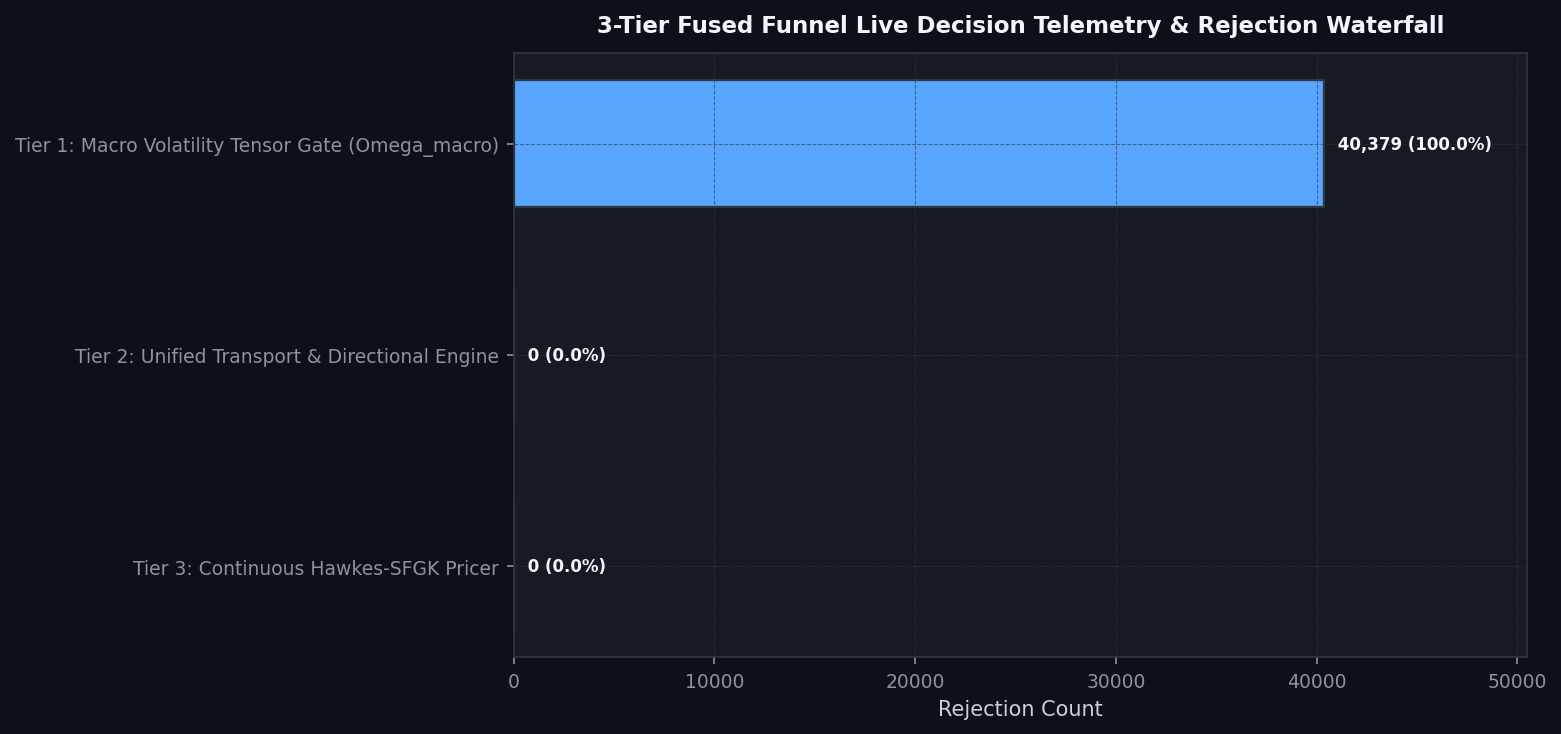
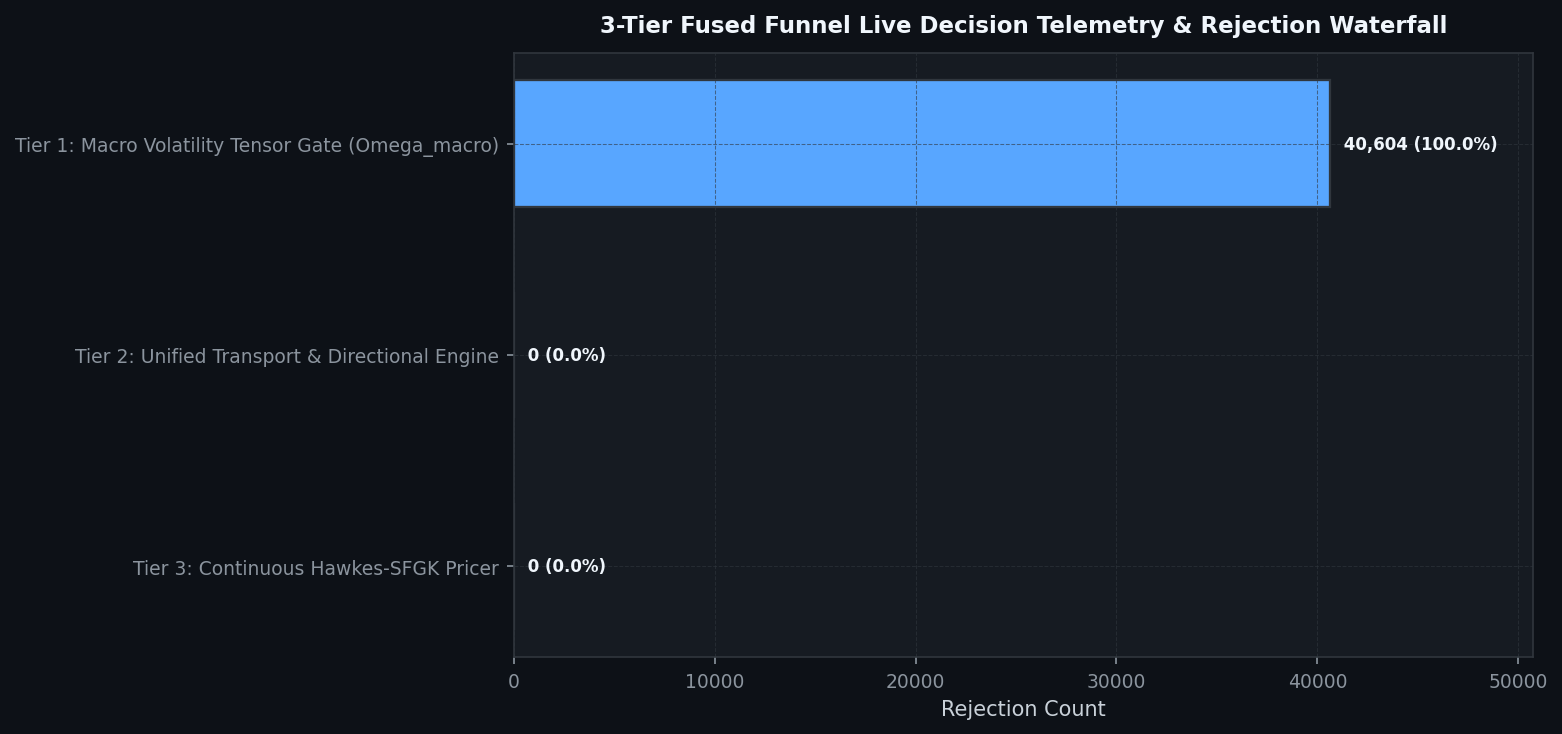
[coinbase] Hourly Status & Visual Intelligence Update: 2026-08-30 18:41:05

diff --git a/coinbase/data/hourly_status_report.md b/coinbase/data/hourly_status_report.md
@@ -3,7 +3,7 @@ layout: default
 ---
 
 # 🛡 Unified Trading System Hourly Status & Visual Intelligence
-> **Report Generated**: `2026-08-30 06:22:00 PM PDT (2026-08-31 01:22:00 UTC)`  
+> **Report Generated**: `2026-08-30 06:40:47 PM PDT (2026-08-31 01:40:47 UTC)`  
 > **System Health**: **🟡 DEGRADED / RESTRICTED** | **Win Rate**: `0.0%` | **Completed Trades**: `0`
 
 
@@ -15,13 +15,13 @@ Real-time Deribit implied volatility (DVOL) proxy tracking against mathematicall
 
 | Symbol | Proxy Oracle | Live Z-Score | Optimal Limit (YSP) | Safety Margin | Live VRP | Optimal VRP (YSP) | DAW Safety Verdict |
 | :--- | :--- | :--- | :--- | :--- | :--- | :--- | :--- |
-| `AVAX-USD` | DVOL_BTC | **-1.57** | **-0.50** | **-1.07** | **+7.22** | 5.0 | 🔴 DAW VETOED |
-| `ETH-USD` | DVOL_ETH | **+2.66** | **-0.50** | **+3.16** | **+22.37** | 5.0 | 🔴 DAW VETOED |
-| `ADA-USD` | DVOL_BTC | **-1.57** | **-0.50** | **-1.07** | **+7.02** | 5.0 | 🔴 DAW VETOED |
-| `DOGE-USD` | DVOL_BTC | **-1.57** | **-0.50** | **-1.07** | **+7.49** | 5.0 | 🔴 DAW VETOED |
-| `BTC-USD` | DVOL_BTC | **-1.57** | **-0.50** | **-1.07** | **+7.17** | 5.0 | 🔴 DAW VETOED |
-| `LINK-USD` | DVOL_BTC | **-1.57** | **-0.50** | **-1.07** | **+6.98** | 5.0 | 🔴 DAW VETOED |
-| `SOL-USD` | DVOL_BTC | **-1.57** | **-0.50** | **-1.07** | **+7.17** | 5.0 | 🔴 DAW VETOED |
+| `AVAX-USD` | DVOL_BTC | **-2.24** | **-0.50** | **-1.74** | **+7.49** | 5.0 | 🔴 DAW VETOED |
+| `ETH-USD` | DVOL_ETH | **+2.00** | **-0.50** | **+2.50** | **+22.64** | 5.0 | 🔴 DAW VETOED |
+| `ADA-USD` | DVOL_BTC | **-2.24** | **-0.50** | **-1.74** | **+7.02** | 5.0 | 🔴 DAW VETOED |
+| `DOGE-USD` | DVOL_BTC | **-2.24** | **-0.50** | **-1.74** | **+7.29** | 5.0 | 🔴 DAW VETOED |
+| `BTC-USD` | DVOL_BTC | **-2.24** | **-0.50** | **-1.74** | **+7.49** | 5.0 | 🔴 DAW VETOED |
+| `LINK-USD` | DVOL_BTC | **-2.24** | **-0.50** | **-1.74** | **+6.98** | 5.0 | 🔴 DAW VETOED |
+| `SOL-USD` | DVOL_BTC | **-2.24** | **-0.50** | **-1.74** | **+7.49** | 5.0 | 🔴 DAW VETOED |
 
 
 
@@ -37,16 +37,16 @@ We hereby certify that the mission-critical algorithmic data assets uploaded by 
 
 | Status | Data Asset | Freshness / State | Details / Timestamp |
 | :---: | :--- | :--- | :--- |
-| ✅ | **Go-List JSON** | Fresh (11.23h old) | 08-30 07:08 |
-| ✅ | **TimesFM Forecasts** | Fresh (2.34h old) | 08-30 16:02 |
-| ❌ | **Holding Times config** | STALE! (225.3h old) | Limit 167.4h |
-| ✅ | **BTC DVOL Cache** | Fresh (0.00h old) | 08-30 18:21 |
-| ✅ | **ETH DVOL Cache** | Fresh (0.00h old) | 08-30 18:22 |
-| ✅ | **Live Trading Telemetry** | Fresh (0.00h old) | 08-30 18:22 |
+| ✅ | **Go-List JSON** | Fresh (11.54h old) | 08-30 07:08 |
+| ✅ | **TimesFM Forecasts** | Fresh (2.65h old) | 08-30 16:02 |
+| ❌ | **Holding Times config** | STALE! (225.6h old) | Limit 167.7h |
+| ✅ | **BTC DVOL Cache** | Fresh (0.00h old) | 08-30 18:40 |
+| ✅ | **ETH DVOL Cache** | Fresh (0.00h old) | 08-30 18:40 |
+| ✅ | **Live Trading Telemetry** | Fresh (0.00h old) | 08-30 18:40 |
 
 <br>
 
-> **Utilization Certification**: ✅ **CERTIFIED.** The Guardian Watchdog is ONLINE and EC2 traders are actively querying the freshest MLOps data artifacts (Found 1979 recent read events).
+> **Utilization Certification**: ✅ **CERTIFIED.** The Guardian Watchdog is ONLINE and EC2 traders are actively querying the freshest MLOps data artifacts (Found 1977 recent read events).
 
 
 ---
@@ -55,7 +55,7 @@ Layer-by-layer tick evaluation waterfall and asset-specific performance tracking
 
 | Funnel Filter Layer | Total Rejections | % of Rejections |
 | :--- | :--- | :--- |
-| Tier 1: Macro Volatility Tensor Gate (Omega_macro) | `40,379` | **100.0%** |
+| Tier 1: Macro Volatility Tensor Gate (Omega_macro) | `40,604` | **100.0%** |
 | Tier 2: Unified Transport & Directional Engine | `0` | **0.0%** |
 | Tier 3: Continuous Hawkes-SFGK Pricer (HAS-Pricer) | `0` | **0.0%** |
 | System: Asset Cooldown Active | `0` | **0.0%** |
@@ -88,7 +88,7 @@ Live balance sheet and open maker liquidity positions from Coinbase CDP.
 | `ACH-USD` | SELL | 0.005507 | `a0d2e243-42b4-4df5-bd23-118f45998df8` |
 | `ADA-USD` | SELL | 0.19509 | `48f1c152-1842-448c-9d46-85e7df634331` |
 | `LINK-USD` | SELL | 11.243 | `04336e2f-2b79-48f3-aed4-4eec894844d6` |
-| `DOGE-USD` | BUY | 0.08196 | `0997ca0f-52a5-4710-83e0-fc307b5b2883` |
+| `DOGE-USD` | BUY | 0.08171 | `ba85ba10-e5bf-479b-84b4-b65900c81da1` |
 
 
 
@@ -96,14 +96,14 @@ Live balance sheet and open maker liquidity positions from Coinbase CDP.
 ## 4. 🤖 Foundation Model MLOps & Pipeline Orchestration
 Weekly Algorithmic Mega Cap selection, Zero-shot multi-step forward return forecasts, and VSTEF parameter grid search status.
 
-- **TimesFM Forecast DB**: 🟢 Updated 2.3h ago (2026-08-30 04:02 PM PDT)
+- **TimesFM Forecast DB**: 🟢 Updated 2.6h ago (2026-08-30 04:02 PM PDT)
 - **Last Weekly VSTEF Optimization**: `2026-08-05 09:22:38 AM PDT`
-- **Next Scheduled VSTEF Run**: `2026-08-30 07:00:00 PM PDT (Monday 02:00 UTC)` (Countdown: **0.6h (0d 0h 37m)**)
+- **Next Scheduled VSTEF Run**: `2026-08-30 07:00:00 PM PDT (Monday 02:00 UTC)` (Countdown: **0.3h (0d 0h 19m)**)
 - **Promoted Parameter Gates**: $Z_{DVOL} \le -0.5$ | Holding Horizon $= 12\text{h}$
 
 ### Algorithmic Mega Cap Selection
 - **Last Run (Confirmation)**: `2026-08-30 07:08:16 AM PDT`
-- **Next Scheduled Run**: `2026-09-06 06:00:00 PM PDT (Monday 01:00 UTC)` (Countdown: **167.6h (6d 23h 37m)**)
+- **Next Scheduled Run**: `2026-09-06 06:00:00 PM PDT (Monday 01:00 UTC)` (Countdown: **167.3h (6d 23h 18m)**)
 - **Selected Mega Cap Universe**: `BTC, BCH, AVAX, ETH, ALGO, ADA, LTC, DOGE, AAVE, LINK, DOT, HBAR`
 
 
@@ -117,19 +117,19 @@ Visualizing the impact of the VSTEF (Volatility-Synchronized Stop-Tightening Exe
 ## 5. 🖥 Multi-Node Infrastructure & Watchdog Matrix
 ```text
 ================================================================================
-   🛡  SFGK FUNNEL GUARDIAN WATCHDOG (HFT ONLY) |  01:21:57 AM
-   CPU:  12.3%  |  MEM:   7.4% (14.3GB / 15.4GB Free)
+   🛡  SFGK FUNNEL GUARDIAN WATCHDOG (HFT ONLY) |  01:40:48 AM
+   CPU:  15.7%  |  MEM:   7.5% (14.3GB / 15.4GB Free)
 ================================================================================
 SERVICE              | PID      | STATUS          | RESTARTS | INFO
 --------------------------------------------------------------------------------
 L3 Consumer          | 1449375  | RUNNING         | -        | Continuous Websocket Feed
 MAO Daemon           | 1449381  | RUNNING         | -        | Oracle Yield Analysis
 U/U Farmer           | 1449383  | RUNNING         | -        | Volume Farmer
-Trader AVAX-USD      | 1521368  | RUNNING         | 179      | Evaluating Funnel/Polling Order
-Trader ETH-USD       | 1521369  | RUNNING         | 231      | Evaluating Funnel/Polling Order
+Trader AVAX-USD      | 1537004  | COOL-DOWN       | 214      | Next run in 14.7s
+Trader ETH-USD       | 1536884  | COOL-DOWN       | 277      | Next run in 3.9s
 Trader ADA-USD       | 1489337  | RUNNING         | 107      | Evaluating Funnel/Polling Order
-Trader DOGE-USD      | 1520651  | RUNNING         | 121      | Evaluating Funnel/Polling Order
-Trader BTC-USD       | 1521258  | COOL-DOWN       | 236      | Next run in 4.0s
+Trader DOGE-USD      | 1535480  | RUNNING         | 164      | Evaluating Funnel/Polling Order
+Trader BTC-USD       | 1537005  | COOL-DOWN       | 289      | Next run in 14.7s
 Trader LINK-USD      | 1489324  | RUNNING         | 87       | Evaluating Funnel/Polling Order
 ```
 

diff --git a/coinbase/data/visual_intelligence.md b/coinbase/data/visual_intelligence.md
@@ -4,7 +4,7 @@ title: Visual Intelligence Gallery
 ---
 
 # 📈 Visual Intelligence Gallery
-> **Generated:** `2026-08-30 18:22:18`
+> **Generated:** `2026-08-30 18:41:05`
 > **[Return to Main Status Report](./hourly_status_report.md)**
 
 This page visualizes the internal states, market profiles, and decision criteria of the active **3-Tier Fused Decision Engine** across all layers.
